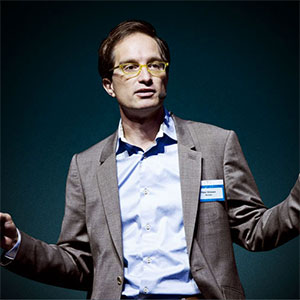
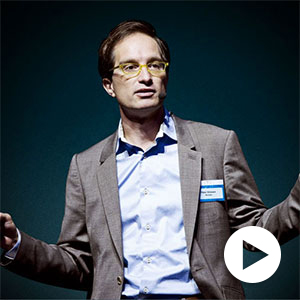
Ch-ch-changes

Changed region(s): [[0.72, 0.75, 0.96, 0.96]]

diff --git a/index.html b/index.html
@@ -88,7 +88,7 @@
 			</div>
 			<ul class="speakers-list">
 				<li class="col-sm-12 keynote">
-					<img src="static/img/SCXS/peter.jpg">
+					<a href="https://www.youtube.com/watch?v=F4RMDoGCCK0" target="_blank" style="cursor: pointer;"><img src="static/img/SCXS/peter.jpg"></a>
 					<div>
 						<h4>Peter Hinnsen</h4>
 						<span>Co-founder, Across Group and Chairman, Across Technology</span>
@@ -255,7 +255,8 @@
 				<h2>Venue &amp; Hotels</h2>
 			</div>
 			<div class="col-md-6 col-sm-12">
-				<a href="https://www.google.com/maps/place/1648+Pacific+Ave,+San+Francisco,+CA+94109/data=!4m2!3m1!1s0x808580e98bb99b57:0xfee6a15cf87af76?sa=X&ved=0CB4Q8gEwAGoVChMI3-C6krP-xgIVEimICh0ktgf5" target="_blank"><img class="intro-image" src="static/img/SCXS/venue-map.png"></a>
+				<img class="venue-image" src="static/img/SCXS/firehouse8.jpg">
+				<a href="https://www.google.com/maps/place/1648+Pacific+Ave,+San+Francisco,+CA+94109/data=!4m2!3m1!1s0x808580e98bb99b57:0xfee6a15cf87af76?sa=X&ved=0CB4Q8gEwAGoVChMI3-C6krP-xgIVEimICh0ktgf5" target="_blank"><img class="venue-image" src="static/img/SCXS/venue-map.png"></a>
 			</div>
 			<div class="col-md-6 col-sm-12">
 				<p>The conference will take place at: 
@@ -291,7 +292,7 @@
 				<h2>Past Highlights</h2>
 				<ul>
 					<li>
-						<blockquote class="twitter-tweet" lang="en"><p lang="en" dir="ltr">+1“<a href="https://twitter.com/JTA4T">@JTA4T</a>: If you sell something you gain a customer for today. If you help someone you earn a customer for life!@reddfw <a href="https://twitter.com/hashtag/sparkcxs?src=hash">#sparkcxs</a>”</p>&mdash; HR Builders (@HRBuilders_be) <a href="https://twitter.com/HRBuilders_be/status/520933832602959873">October 11, 2014</a></blockquote>
+						<blockquote class="twitter-tweet" lang="en"><p lang="en" dir="ltr">If you sell something you gain a customer for today. If you help someone you earn a customer for life! - <a href="https://twitter.com/reddfw">@reddfw</a> of <a href="https://twitter.com/DeltaAssist">@DeltaAssist</a> <a href="https://twitter.com/hashtag/sparkcxs?src=hash">#sparkcxs</a></p>&mdash; John Affourtit (@JTA4T) <a href="https://twitter.com/JTA4T/status/520645289082753025">October 10, 2014</a></blockquote>
 						<script async src="//platform.twitter.com/widgets.js" charset="utf-8"></script>
 					</li>
 
@@ -344,12 +345,7 @@
     <div class="row">
       <div class="col-xs-4 col-sm-2">
         <a href="http://www.sparkcentral.com" target="_blank"><img src="static/img/logo-white.svg"></a>
-        <h6>Social</h6>
-       <ul class="social">
-        <li><a href="https://twitter.com/sparkcentral" target="blank">l</a></li>
-        <li><a href="https://www.facebook.com/sparkcentral" target="blank">f</a></li>
-        <li><a href="https://plus.google.com/105881348265403356447" target="blank" rel="publisher">g</a>
-        </ul>
+       
         <!-- <ul>
           <li><h6>Learn More</h6></li>
           <li><a href="product.html">Product</a></li>
@@ -378,13 +374,18 @@
         </ul> -->
       </div><!--columns-->
 
+      <div class="col-sm-2">
+      </div>
+      
+      <div class="col-sm-2">
+      </div>
+
       <div class="col-xs-12 col-sm-2">
-       <!-- <h6>Social</h6>
-       <ul class="social">
-        <li><a href="https://twitter.com/sparkcentral" target="blank">l</a></li>
-        <li><a href="https://www.facebook.com/sparkcentral" target="blank">f</a></li>
-        <li><a href="https://plus.google.com/105881348265403356447" target="blank" rel="publisher">g</a>
-        </ul> -->
+        <ul class="social">
+          <li><a href="https://twitter.com/sparkcentral" target="blank">l</a></li>
+          <li><a href="https://www.facebook.com/sparkcentral" target="blank">f</a></li>
+          <li><a href="https://plus.google.com/105881348265403356447" target="blank" rel="publisher">g</a>
+        </ul>
       </div><!--columns-->
 
 

diff --git a/error.html b/error.html
@@ -75,12 +75,7 @@
     <div class="row">
       <div class="col-xs-4 col-sm-2">
         <a href="http://www.sparkcentral.com" target="_blank"><img src="static/img/logo-white.svg"></a>
-        <h6>Social</h6>
-       <ul class="social">
-        <li><a href="https://twitter.com/sparkcentral" target="blank">l</a></li>
-        <li><a href="https://www.facebook.com/sparkcentral" target="blank">f</a></li>
-        <li><a href="https://plus.google.com/105881348265403356447" target="blank" rel="publisher">g</a>
-        </ul>
+       
         <!-- <ul>
           <li><h6>Learn More</h6></li>
           <li><a href="product.html">Product</a></li>
@@ -109,13 +104,18 @@
         </ul> -->
       </div><!--columns-->
 
+      <div class="col-sm-2">
+      </div>
+      
+      <div class="col-sm-2">
+      </div>
+
       <div class="col-xs-12 col-sm-2">
-       <!-- <h6>Social</h6>
-       <ul class="social">
-        <li><a href="https://twitter.com/sparkcentral" target="blank">l</a></li>
-        <li><a href="https://www.facebook.com/sparkcentral" target="blank">f</a></li>
-        <li><a href="https://plus.google.com/105881348265403356447" target="blank" rel="publisher">g</a>
-        </ul> -->
+        <ul class="social">
+          <li><a href="https://twitter.com/sparkcentral" target="blank">l</a></li>
+          <li><a href="https://www.facebook.com/sparkcentral" target="blank">f</a></li>
+          <li><a href="https://plus.google.com/105881348265403356447" target="blank" rel="publisher">g</a>
+        </ul>
       </div><!--columns-->
 
 

diff --git a/static/css/main.css b/static/css/main.css
@@ -5557,8 +5557,12 @@ input.button {
   font-size: 30px;
   text-transform: uppercase;
 }
-.intro-image {
+.intro-image,
+.venue-image {
   width: 100%;
+}
+.venue-image {
+  margin-bottom: 15px;
 }
 .intro,
 .speakers,
